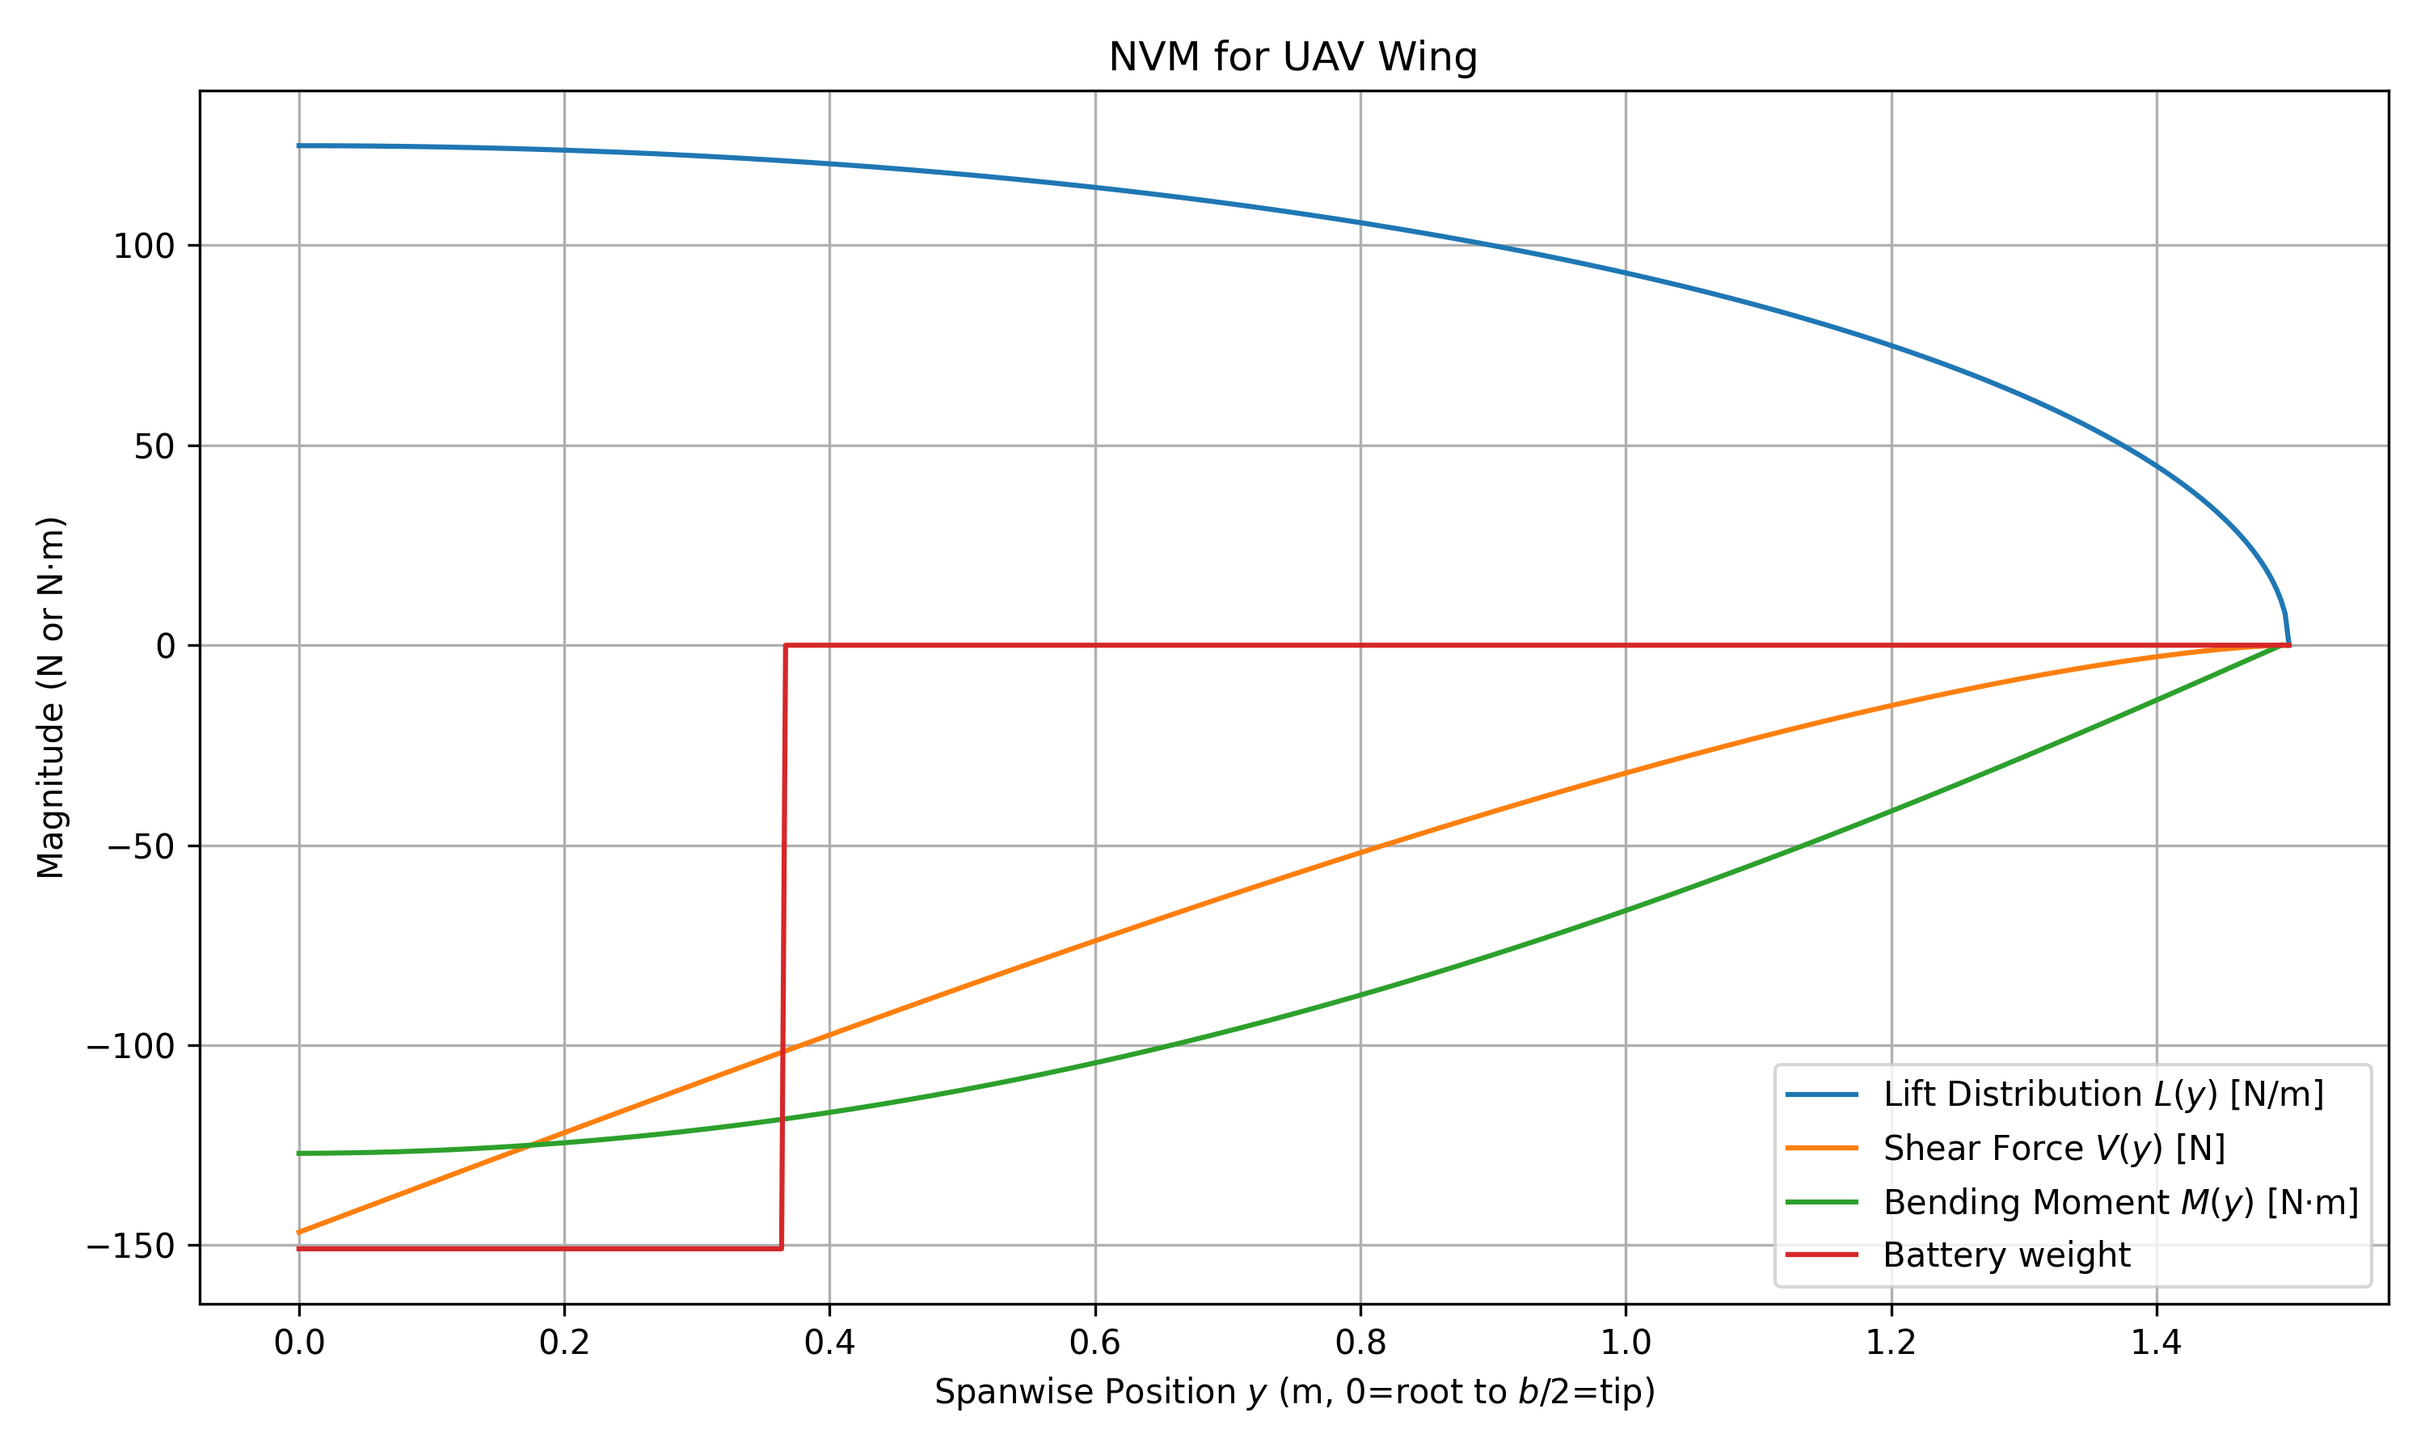
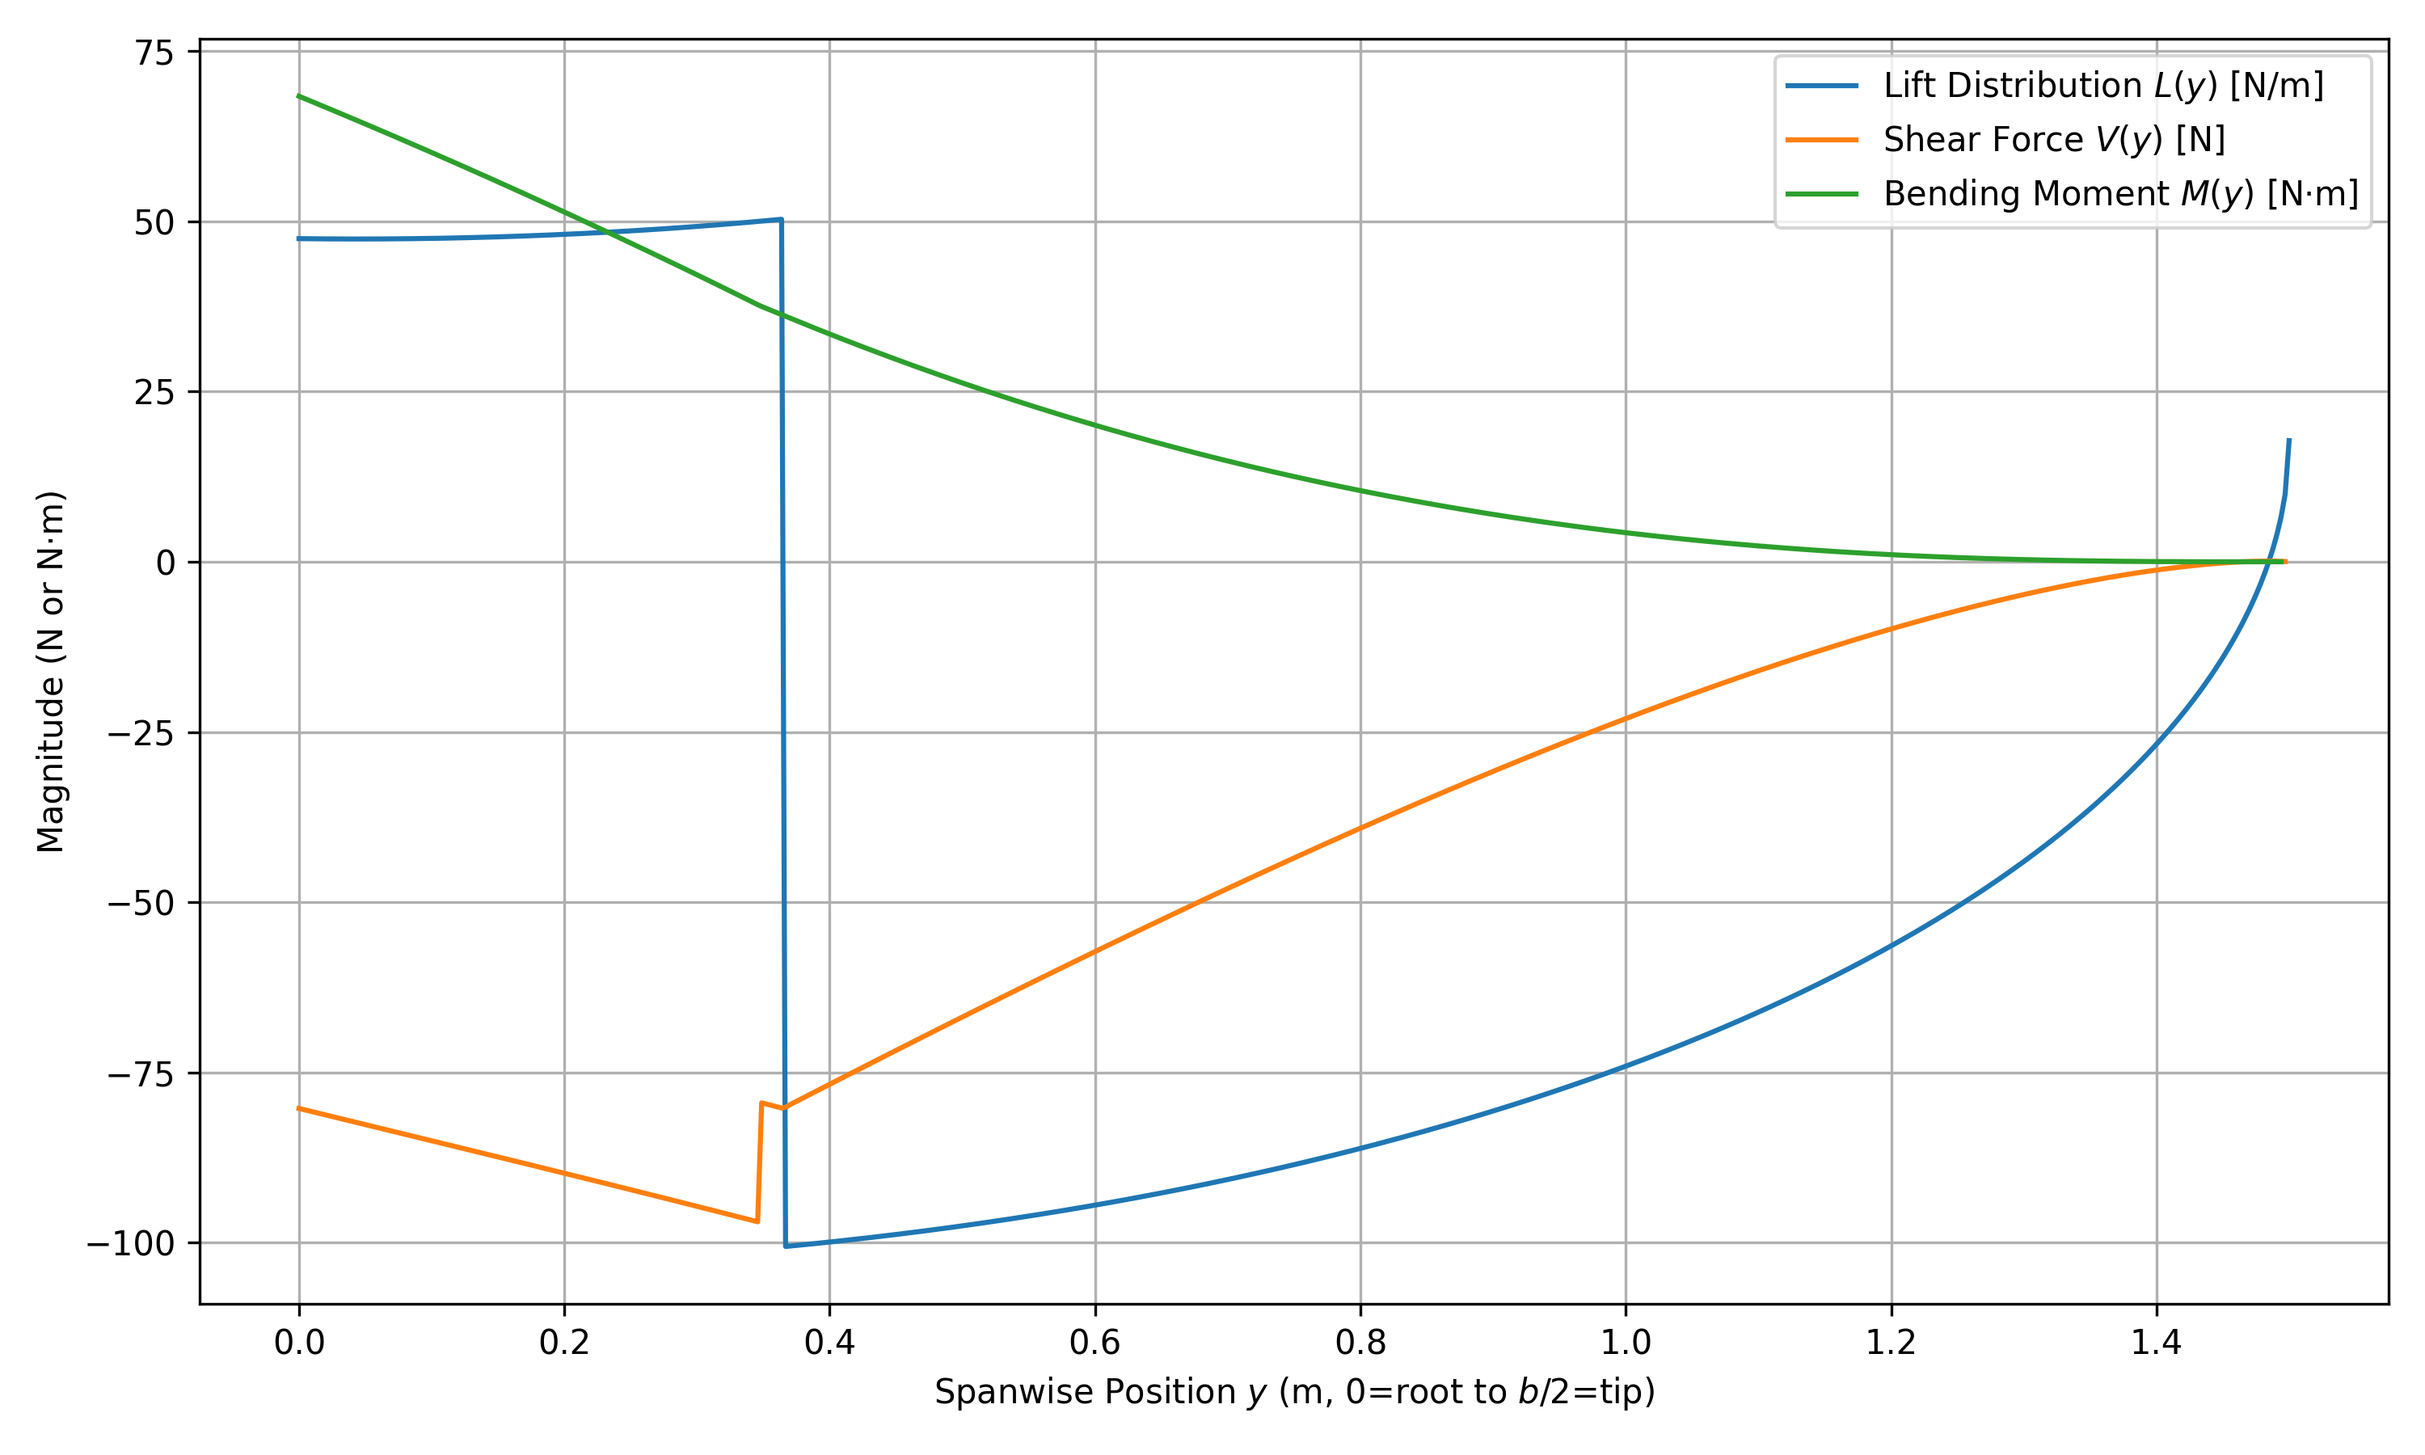
Added NVM plots

diff --git a/DetailedDesign/subsystems/structures.py b/DetailedDesign/subsystems/structures.py
@@ -46,6 +46,19 @@ class Structures:
         
         self.wing_span = inputs["wing_span"]
         self.mass_wing = inputs['mass_wing']
+
+        self.motor_mass_VTOL = inputs['motor_mass_VTOL']
+        self.propeller_mass_VTOL = inputs['propeller_mass_VTOL']
+        self.propeller_diameter_VTOL = inputs['propeller_diameter_VTOL']
+        self.y_prop = inputs['y_prop']
+
+        self.VTOL_boom_length = inputs['VTOL_boom_length']
+        self.titanium_density = inputs['titanium_density']
+        self.titanium_E = inputs['titanium_E']
+        self.max_deflection_VTOL_boom = inputs['max_deflection_VTOL_boom']
+
+        self.VTOL_boom_thickness = self.determine_VTOL_boom_thickness()
+
                 
 
     # ~~~ Intermediate Functions ~~~
@@ -64,49 +77,236 @@ class Structures:
 
         self.leftover_for_payload = self.M_to - mass_nopay
 
-    def NVM(self):
+    def NVM_cruise(self):
         """
-        This function creates NVM plots for the UAV wing (hard-coded values).
+        This function calculates the NVM (Normal, Shear, and Bending Moment) for the UAV wing during cruise flight.
+        It considers the distributed loads from the wing weight, battery weight and lift, and the point loads from the propellers.
+        It then plots the distributed load, shear force, and bending moment along the span of the wing.
+
+        Down is considered positive in this context, as per the provided reference and convention for aircraft coordinate systems.
+
+        The load factor is 1
         """
+
+        # https://uotechnology.edu.iq/dep-MechanicsandEquipment/Lectures%20and%20Syllabus/Lectures/Aircraft/Foruth%20Grade/Aircraft%20Design3.pdf
+
+        # DOWN IS POSITIVE
 
         half_span = self.span / 2.0
-        y = np.linspace(0.0, half_span, 500)  # 0 (root) to b/2 (tip)
+        y = np.linspace(0, half_span, 500)  # 0 (root) to b/2 (tip)
 
-        # Defining Lift distribution
-        print(self.mass_battery, self.battery_length)
+        # Distributed load from the battery
 
-        W_batt = np.array([-2*self.mass_battery*9.81 / (2*self.battery_length) if i < self.battery_length*2 else 0 for i in y])
-        print(W_batt)
+        W_batt = np.array([2*self.mass_battery*9.81 / (2*self.battery_length) if i < self.battery_length*2 else 0 for i in y])
+
+        # Distributed load from the wing weight
 
         x_0 = self.mass_wing*9.81 / (half_span*(self.taper_ratio + 0.5*(1-self.taper_ratio)))
-        # print(x_0)
-        W_wing = [(-(1-self.taper_ratio)*x_0 / half_span)* i + x_0 for i in y]
-        
+        W_wing = [-(((1-self.taper_ratio)*x_0 / half_span)* i - x_0) for i in y]
 
-        L_y = ((4*self.mtow) / (np.pi*self.span)) * np.sqrt(1 - ((2*y)/self.span)**2)
+        # Point load from the propellers
 
-        V = integrate.cumulative_simpson(L_y, x=y)
-        M = integrate.cumulative_simpson(V, x=y[:-1])
+        F_prop = 9.81*2*(self.propeller_mass_VTOL + self.motor_mass_VTOL)
 
-        V = V - V[-1]
-        M = M - M[-1]
+        V_prop = [F_prop if i < self.y_prop else 0 for i in y]
 
+        # Distributed lift load from the lift assuming elliptical lift distribution
+        L_y = -((4*self.mtow) / (np.pi*self.span)) * np.sqrt(1 - ((2*y)/self.span)**2)
+        total_forces = W_wing + L_y + W_batt
+        forces_rev = total_forces[::-1]
 
-        # Plot Lift, Shear and Moment on the same axes
-        plt.figure(figsize=(10, 6))
-        plt.plot(y, L_y, label="Lift Distribution $L(y)$ [N/m]")
-        plt.plot(y[:-1], V, label="Shear Force $V(y)$ [N]")
-        plt.plot(y[:-2], M, label="Bending Moment $M(y)$ [N·m]")
-        plt.plot(y, W_batt, label='Battery weight')
-        plt.title("NVM for UAV Wing")
-        plt.xlabel("Spanwise Position $y$ (m, 0=root to $b/2$=tip)")
-        plt.ylabel("Magnitude (N or N·m)")
-        plt.legend()
-        plt.grid(True)
-        plt.tight_layout()
-        plt.savefig("DetailedDesign\subsystems\Plots\Try.png", dpi=300)
+        V_rev = integrate.cumulative_simpson(forces_rev, x=y)  + V_prop[::-1][:-1]
+        M_rev = integrate.cumulative_simpson(V_rev, x=y[:-1])
+
+        V = V_rev[::-1]
+        M = -M_rev[::-1]
+                
+        fig, axs = plt.subplots(3, 1, figsize=(10, 10), sharex=True)
+
+        axs[0].plot(y, total_forces, color='tab:blue', linewidth=2, label="Distributed Load")
+        axs[0].fill_between(y, total_forces, color='tab:blue', alpha=0.3)
+        axs[0].set_ylabel("Load [N/m]")
+        axs[0].set_xlabel("Spanwise Position $y$ (m)")
+        axs[0].grid(True)
+
+        axs[1].plot(y[:-1], V, color='tab:orange', linewidth=2, label="Shear Force")
+        axs[1].fill_between(y[:-1], V, color='tab:orange', alpha=0.3)
+        axs[1].set_ylabel("Shear [N]")
+        axs[1].set_xlabel("Spanwise Position $y$ (m)")
+        axs[1].grid(True)
+
+        axs[2].plot(y[:-2], M, color='tab:green', linewidth=2, label="Bending Moment")
+        axs[2].fill_between(y[:-2], M, color='tab:green', alpha=0.3)
+        axs[2].set_ylabel("Moment [N·m]")
+        axs[2].set_xlabel("Spanwise Position $y$ (m)")
+        axs[2].grid(True)
+
+        plt.tight_layout(rect=[0, 0, 1, 0.97])
+        plt.savefig("DetailedDesign/subsystems/Plots/NVM_plot_cruise.png", dpi=300)
         plt.show()
 
+        return None
+    
+    def NVM_VTOL(self):
+        """
+        This function calculates the NVM (Normal, Shear, and Bending Moment) for the UAV during cruise hover.
+        It considers the distributed loads from the wing weight, battery weight and lift, which is now generated by the propellers.
+        It then plots the distributed load, shear force, and bending moment along the span of the wing.
+
+        Down is considered positive in this context, as per the provided reference and convention for aircraft coordinate systems.
+
+        The load factor is 1
+        """
+
+        # https://uotechnology.edu.iq/dep-MechanicsandEquipment/Lectures%20and%20Syllabus/Lectures/Aircraft/Foruth%20Grade/Aircraft%20Design3.pdf
+
+        # DOWN IS POSITIVE
+
+        half_span = self.span / 2.0
+        y = np.linspace(0, half_span, 500)  # 0 (root) to b/2 (tip)
+
+        W_batt = np.array([2*self.mass_battery*9.81 / (2*self.battery_length) if i < self.battery_length*2 else 0 for i in y])
+
+        # Distributed load from the wing weight
+
+        x_0 = self.mass_wing*9.81 / (half_span*(self.taper_ratio + 0.5*(1-self.taper_ratio)))
+        W_wing = [-(((1-self.taper_ratio)*x_0 / half_span)* i - x_0) for i in y]
+
+        # Point load from the propellers
+
+        F_prop = 9.81*2*(self.propeller_mass_VTOL + self.motor_mass_VTOL) - 0.5*self.mtow
+
+
+        V_prop = [F_prop if i < self.y_prop else 0 for i in y]
+
+        total_forces = W_wing + W_batt
+        forces_rev = total_forces[::-1]
+
+        # V = integrate.cumulative_simpson(total_forces, x=y)
+        # M = integrate.cumulative_simpson(V, x=y[:-1])
+
+        V_rev = integrate.cumulative_simpson(forces_rev, x=y)  + V_prop[::-1][:-1]
+        # V_rev = V_prop[::-1][:-1]
+        M_rev = integrate.cumulative_simpson(V_rev, x=y[:-1])
+
+        V = V_rev[::-1]
+        M = -M_rev[::-1]
+                
+        fig, axs = plt.subplots(3, 1, figsize=(10, 10), sharex=True)
+
+        axs[0].plot(y, total_forces, color='tab:blue', linewidth=2, label="Distributed Load")
+        axs[0].fill_between(y, total_forces, color='tab:blue', alpha=0.3)
+        axs[0].set_ylabel("Load [N/m]")
+        axs[0].set_xlabel("Spanwise Position $y$ (m)")
+        axs[0].grid(True)
+
+        axs[1].plot(y[:-1], V, color='tab:orange', linewidth=2, label="Shear Force")
+        axs[1].fill_between(y[:-1], V, color='tab:orange', alpha=0.3)
+        axs[1].set_ylabel("Shear [N]")
+        axs[1].set_xlabel("Spanwise Position $y$ (m)")
+        axs[1].grid(True)
+
+        axs[2].plot(y[:-2], M, color='tab:green', linewidth=2, label="Bending Moment")
+        axs[2].fill_between(y[:-2], M, color='tab:green', alpha=0.3)
+        axs[2].set_ylabel("Moment [N·m]")
+        axs[2].set_xlabel("Spanwise Position $y$ (m)")
+        axs[2].grid(True)
+
+        plt.tight_layout(rect=[0, 0, 1, 0.97])
+        plt.savefig("DetailedDesign/subsystems/Plots/NVM_plot_hover.png", dpi=300)
+        plt.show()
+
+        return None
+    
+    def NVM_propeller_boom(self, size_thickness = False):
+        """
+        This function calculates the NVM (Normal, Shear, and Bending Moment) for the boom that supports the VTOL propellers.
+        It considers the distributed loads from the boom weight, the weight from the propellers and motors and the lift that those generate.
+        It then plots the distributed load, shear force, and bending moment along the span of the wing.
+
+        Down is considered positive in this context, as per the provided reference and convention for aircraft coordinate systems.
+
+        The load factor is 1
+        """
+
+        # https://uotechnology.edu.iq/dep-MechanicsandEquipment/Lectures%20and%20Syllabus/Lectures/Aircraft/Foruth%20Grade/Aircraft%20Design3.pdf
+
+        # DOWN IS POSITIVE
+        y = np.linspace(-0.5*self.VTOL_boom_length, 0.5*self.VTOL_boom_length, 500)
+
+        # Distributed load from the boom weight
+
+        I_circle = (np.pi / 64)*self.VTOL_boom_thickness**4
+        boom_weight = (0.5*self.VTOL_boom_thickness)**2 * np.pi * self.VTOL_boom_length * self.titanium_density *9.81
+        print('boom_mass', boom_weight / 9.81)
+        W_boom = np.array([boom_weight / self.VTOL_boom_length for _ in y])
+
+        # Point load from the propeller
+
+        F_prop = 9.81*(self.propeller_mass_VTOL + self.motor_mass_VTOL) - 0.25*self.mtow
+
+        V_prop = [-F_prop if i < 0 else F_prop for i in y]
+
+        total_forces = W_boom
+        forces_rev = W_boom[::-1]
+
+        V_left = integrate.cumulative_simpson(total_forces, x=y) - V_prop[:-1]
+
+        V_rev = integrate.cumulative_simpson(forces_rev, x=y) + V_prop[::-1][:-1]
+        V = np.concatenate((-V_left[:len(y)//2], V_rev[::-1][len(y)//2:]))
+
+        M_left = integrate.cumulative_simpson(V_left, x=y[:-1])  
+        M_rev = integrate.cumulative_simpson(V_rev, x=y[:-1])
+
+        M = np.concatenate((-M_left[:len(y)//2], -M_rev[::-1][len(y)//2:]))
+
+        deflection_left = -(1/(self.titanium_E*I_circle))* integrate.cumulative_simpson(integrate.cumulative_simpson(M_left, x=y[:-2]), x=y[:-3])
+        deflection_rev = -(1/(self.titanium_E*I_circle))* integrate.cumulative_simpson(integrate.cumulative_simpson(M_rev, x=y[:-2]), x=y[:-3])
+
+        deflection = np.concatenate((deflection_rev[::-1][len(y)//2:], deflection_left[:len(y)//2]))
+
+        if size_thickness:
+            return max(deflection)
+
+        fig, axs = plt.subplots(4, 1, figsize=(10, 10), sharex=True)
+
+        axs[0].plot(y, total_forces, color='tab:blue', linewidth=2, label="Distributed Load")
+        axs[0].fill_between(y, total_forces, color='tab:blue', alpha=0.3)
+        axs[0].set_ylabel("Load [N/m]")
+        axs[0].set_xlabel("Spanwise Position $y$ (m)")
+        axs[0].grid(True)
+
+        axs[1].plot(y[:-1], V, color='tab:orange', linewidth=2, label="Shear Force")
+        axs[1].fill_between(y[:-1], V, color='tab:orange', alpha=0.3)
+        axs[1].set_ylabel("Shear [N]")
+        axs[1].set_xlabel("Spanwise Position $y$ (m)")
+        axs[1].grid(True)
+
+        axs[2].plot(y[:-2], M, color='tab:green', linewidth=2, label="Bending Moment")
+        axs[2].fill_between(y[:-2], M, color='tab:green', alpha=0.3)
+        axs[2].set_ylabel("Moment [N·m]")
+        axs[2].set_xlabel("Spanwise Position $y$ (m)")
+        axs[2].grid(True)
+
+        axs[3].plot(y[:len(deflection)], deflection, color='tab:pink', linewidth=2, label="Bending Moment")
+        axs[3].fill_between(y[:len(deflection)], deflection, color='tab:pink', alpha=0.3)
+        axs[3].set_ylabel("deflection [m]")
+        axs[3].set_xlabel("Spanwise Position $y$ (m)")
+        axs[3].grid(True)
+
+        plt.tight_layout(rect=[0, 0, 1, 0.97])
+        plt.savefig("DetailedDesign/subsystems/Plots/NVM_plot_propeller_bom.png", dpi=300)
+        plt.show()
+
+        return None
+    
+    def determine_VTOL_boom_thickness(self):
+        t_range = np.linspace(00.001, 0.1, 100)
+        for t in t_range:
+            self.VTOL_boom_thickness = t
+            deflection = self.NVM_propeller_boom(size_thickness=True)
+            if deflection <= self.max_deflection_VTOL_boom:
+                return t
         return None
 
     # ~~~ Output functions ~~~
@@ -134,5 +334,7 @@ class Structures:
 
 if __name__ == "__main__":  # pragma: no cover
     a = Structures(fi)
-    a.NVM()
+    a.NVM_VTOL()
+    a.NVM_cruise()
+    a.NVM_propeller_boom()
     # Perform sanity checks here

diff --git a/DetailedDesign/funny_inputs.py b/DetailedDesign/funny_inputs.py
@@ -147,6 +147,15 @@ structures_funny_inputs = {
     "battery_length": 0.182, # m 
     "mass_wing": 3, #kg
     "taper_ratio": 0.83, #-
+    "propeller_diameter_VTOL": 0.66, #m
+    "mass_propulsion": 5, #kg
+    "propeller_mass_VTOL": 0.073, #kg
+    "y_prop": 0.66 / 2, #m, how far out from the root chord the propeller beam is placed. 
+    "VTOL_boom_thickness": 0.05, #m
+    "VTOL_boom_length": 0.66 * 2, #m, based on 1 propeller diameter between propellers
+    "titanium_density": 4.43 * 1000, #kg/m3
+    "titanium_E": 110 * 10**9, #kg/m3
+    "max_deflection_VTOL_boom": 0.05, #m, guesstimate
 }
 
 funny_inputs.update(structures_funny_inputs)
